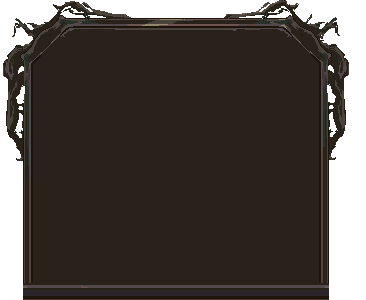
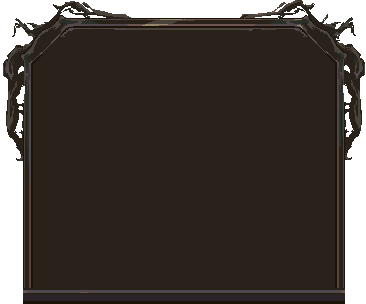
Grow the gaming board to the formation standing on it
The board was a fixed 366x304 image. A formation too wide for it got side
wings bolted on behind the edges instead, which is a patch over the real
problem: the backdrop could not answer the card count.

gamingBoard.png nine-slices cleanly. Rows 181-287 are 107 byte-identical rows
and cols 194-238 are 45 byte-identical columns, so those bands repeat while
the branch ornaments and the bottom lip ride in the caps at their authored
size. Reassembled at 366x304 the slices reproduce the source pixel for pixel,
which is what makes the common case safe: an ordinary floor still gets a
plain image, and only a formation that would overhang the edge builds the
sliced panel at all.

Sizing measures from the panel's centre rather than the cluster's. Those are
not the same point — x sits 10px right of the cards to clear the combat log —
so sizing to "cluster plus a margin each side" would have spent 10px of the
left margin and left that edge inside the wing threshold anyway.

In practice this is horizontal only: with the play rect as it stands, five
columns or fewer fit the authored board untouched and seven columns reach
about 434px, while the tallest formation still clears 304 with room over.
The wings are left in as the fallback for a board clamped at the viewport.

Includes Taya's updated board art.

diff --git a/src/systems/board/BoardLayout.js b/src/systems/board/BoardLayout.js
@@ -5,6 +5,11 @@ import {
     seatOfCard,
 } from '../../content/amulets/strategy.js';
 import { cameraWorldSize } from '../../config/renderScale.js';
+import {
+    BOARD_PANEL_KEY,
+    BOARD_PANEL_SLICE,
+    createNineSlicePanel,
+} from '../../ui/NineSlicePanel.js';
 
 export class BoardLayout {
     constructor(cs) {
@@ -349,6 +354,12 @@ function clearBoard() {
   this.boardCards = [];
 }
 
+// Breathing room between the outermost card edge and the inside of the board's
+// frame. The old fixed-size board triggered its side wings at 8px of clearance,
+// so anything at or above that reads as "the cards fit".
+const BOARD_CARD_MARGIN_X = 16;
+const BOARD_CARD_MARGIN_Y = 14;
+
 function createFloorBoardPanel(cells, place, animate = true, textureKey = 'gamingBoard') {
   this.clearFloorBoardPanel();
   if (!this.scene.textures.exists(textureKey)) return;
@@ -366,15 +377,51 @@ function createFloorBoardPanel(cells, place, animate = true, textureKey = 'gamin
   // supposed to be under. Taya's call, off the built screen.
   const y = Math.min(camH - 122, ((minY + maxY) / 2) + 8) - BOARD_PANEL_LIFT;
 
-  const panel = this.scene.add.image(x, animate ? y + BOARD_ENTRANCE_DROP : y, textureKey);
+  // The board grows to the formation standing on it rather than the formation
+  // being squeezed into a fixed plank.
+  //
+  // Measured out from the PANEL's centre, not the cluster's. The two are not
+  // the same point — x sits 10px right of the cards to clear the combat log,
+  // and y can be pushed up by the camH clamp above — so a width of
+  // "cluster + margin on each side" would quietly spend 10px of the left
+  // margin and leave that edge tighter than asked. Taking the furthest reach
+  // from the centre and doubling it gives the tighter side the full margin.
+  //
+  // The authored size is the floor, never the target: an ordinary floor still
+  // gets exactly the board that was drawn, and only a formation that would
+  // otherwise overhang the edge makes it bigger. The viewport is the ceiling.
+  const src = this.scene.textures.get(textureKey).getSourceImage();
+  const nativeW = src?.width || 366;
+  const nativeH = src?.height || 304;
+  const cardScale = place?.cardScale || 1;
+  const halfCardW = ((this.constructor.CARD_ART?.width || 53) * cardScale) / 2;
+  const halfCardH = ((this.constructor.CARD_ART?.height || 70) * cardScale) / 2;
+  const reachX = Math.max(x - (minX - halfCardW), (maxX + halfCardW) - x);
+  const reachY = Math.max(y - (minY - halfCardH), (maxY + halfCardH) - y);
+  const panelW = Math.min(camW, Math.max(nativeW, (reachX + BOARD_CARD_MARGIN_X) * 2));
+  const panelH = Math.min(camH, Math.max(nativeH, (reachY + BOARD_CARD_MARGIN_Y) * 2));
+
+  // Only gamingBoard has measured slice insets. Every other backdrop (the shop
+  // and station planks) keeps the plain image it has always used — they frame
+  // fixed layouts and have nothing to grow for.
+  let panel = null;
+  if (textureKey === BOARD_PANEL_KEY && (panelW > nativeW || panelH > nativeH)) {
+    panel = createNineSlicePanel(this.scene, panelW, panelH, {
+      key: textureKey,
+      slice: BOARD_PANEL_SLICE,
+    });
+  }
+  if (!panel) panel = this.scene.add.image(0, 0, textureKey);
+  panel.x = x;
+  panel.y = animate ? y + BOARD_ENTRANCE_DROP : y;
   panel.setDepth(0);
   panel.setData('restY', y);
   this.floorBoardPanel = panel;
 
-  // Preserve native card scale. If an unusual formation reaches outside the
-  // main board art, extend the backdrop under it instead of shrinking cards.
-  const halfCardW = (this.constructor.CARD_ART?.width || 53) / 2;
-  const halfPanelW = (panel.displayWidth || panel.width || 366) / 2;
+  // Preserve native card scale. A formation wide enough to reach past even the
+  // grown board — which now means past the viewport — still gets the backdrop
+  // extended under it rather than the cards shrunk.
+  const halfPanelW = (panel.displayWidth || panel.width || nativeW) / 2;
   if (minX - halfCardW < x - halfPanelW + 8) {
     this.createSideExtraPanel('left', { animate, delayMs: 120 });
   }

diff --git a/src/ui/NineSlicePanel.js b/src/ui/NineSlicePanel.js
@@ -129,6 +129,68 @@ export function createTooltipPanel(scene, width, height, opts = {}) {
     return scene.add.container(0, 0, pieces);
 }
 
+// The gaming board, sliced so it can grow with the formation standing on it.
+// Measured off gamingBoard.png (366x304): rows 181-287 are 107 byte-identical
+// rows and cols 194-238 are 45 byte-identical columns, so those two bands are
+// the ones that repeat. Everything outside them — the branch ornaments over the
+// top corners and the bottom lip — rides in the caps at its authored size.
+//
+// The bands are off-centre (the left cap is 194px against the right's 127) and
+// that is fine: they are flat fill, so the seam lands where there is no drawn
+// detail to interrupt. The numbers must keep summing to the source dimensions.
+export const BOARD_PANEL_KEY = 'gamingBoard';
+export const BOARD_PANEL_SLICE = { left: 194, right: 127, top: 181, bottom: 16 };
+
+/**
+ * Nine-slice panel centred on its own origin, sized to `width` x `height`.
+ *
+ * Unlike createTooltipPanel this anchors at the centre, because the things that
+ * want it (the board) are positioned by their middle. Returns null rather than
+ * a fallback shape when it cannot build — the caller already has a plain image
+ * to fall back to, and a stand-in rectangle behind the cards would read as a
+ * bug rather than as degraded art.
+ */
+export function createNineSlicePanel(scene, width, height, opts = {}) {
+    const { key, slice } = opts;
+    if (!scene?.add?.tileSprite || !key || !slice) return null;
+
+    // Even dimensions only: the pieces are laid out from -w/2, and an odd size
+    // would put every one of them on a half pixel.
+    const w = Math.ceil(width / 2) * 2;
+    const h = Math.ceil(height / 2) * 2;
+    if (w < slice.left + slice.right + 1) return null;
+    if (h < slice.top + slice.bottom + 1) return null;
+    if (!ensureFrames(scene, key, slice)) return null;
+
+    const p = framePrefix(key);
+    const ws = [slice.left, w - slice.left - slice.right, slice.right];
+    const hs = [slice.top, h - slice.top - slice.bottom, slice.bottom];
+    const xs = [-w / 2, -w / 2 + ws[0], w / 2 - ws[2]];
+    const ys = [-h / 2, -h / 2 + hs[0], h / 2 - hs[2]];
+
+    const pieces = PIECES.map((name, i) => {
+        const col = i % 3;
+        const row = Math.floor(i / 3);
+        const frame = `${p}${name}`;
+        // Corners keep their exact pixels; edges and centre repeat theirs.
+        // Tiling rather than stretching is the house habit (see the note at the
+        // top of this file) and costs nothing here, because both bands are a
+        // single repeated row/column of flat colour either way.
+        if (col !== 1 && row !== 1) {
+            return scene.add.image(xs[col], ys[row], key, frame).setOrigin(0, 0);
+        }
+        return scene.add
+            .tileSprite(xs[col], ys[row], ws[col], hs[row], key, frame)
+            .setOrigin(0, 0);
+    });
+
+    const container = scene.add.container(0, 0, pieces);
+    // Without this the container reports zero size and callers reading
+    // displayWidth (the board's overflow check) would size their wings to it.
+    container.setSize(w, h);
+    return container;
+}
+
 export const CORNER_SELECT_KEY = 'cornerSelect';
 
 /**
